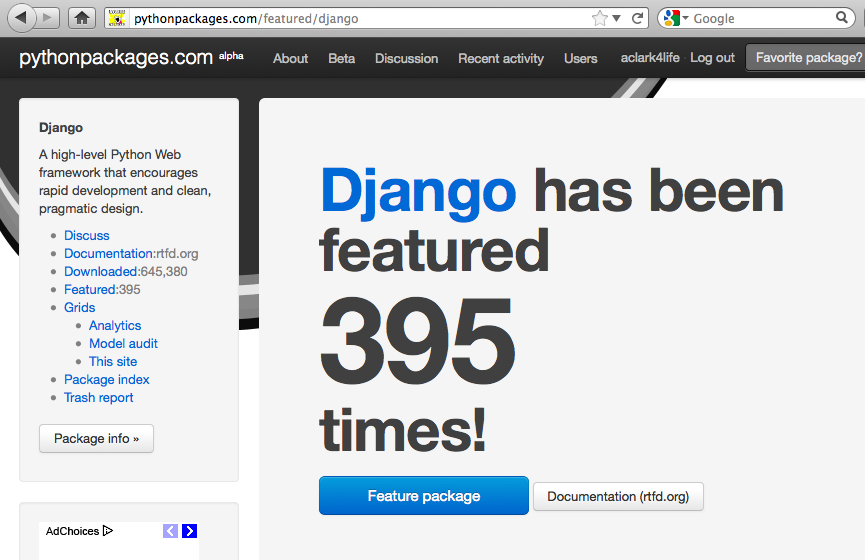
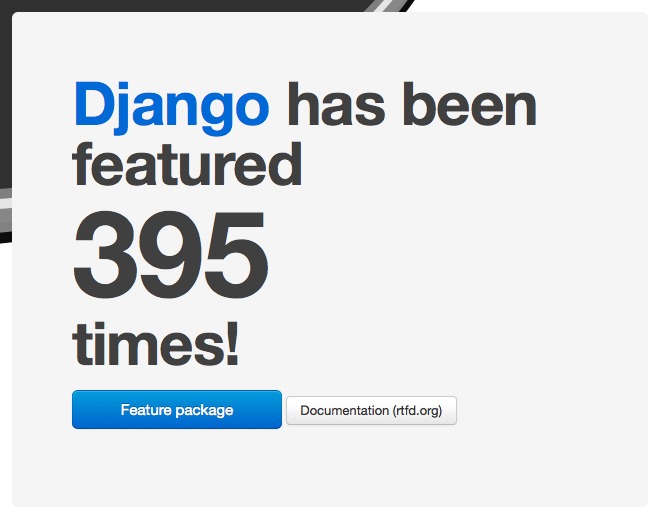
Update image; describe /favorited/package section

diff --git a/features.rst b/features.rst
@@ -37,7 +37,9 @@ buttons.
 Display number of times featured
 --------------------------------
 
-In addition to displaying number of times a package has been downloaded from
-PyPI, ``pythonpackages.com`` displays the number of times a package has been
-featured on ``pythonpackages.com``.
+In addition to displaying the number of times a package has been downloaded from
+the Python Package Index, ``pythonpackages.com`` displays the number of times a
+package has been featured on ``pythonpackages.com``:
+
+.. image:: https://github.com/aclark4life/pythonpackages-docs/raw/master/features04.png
 
